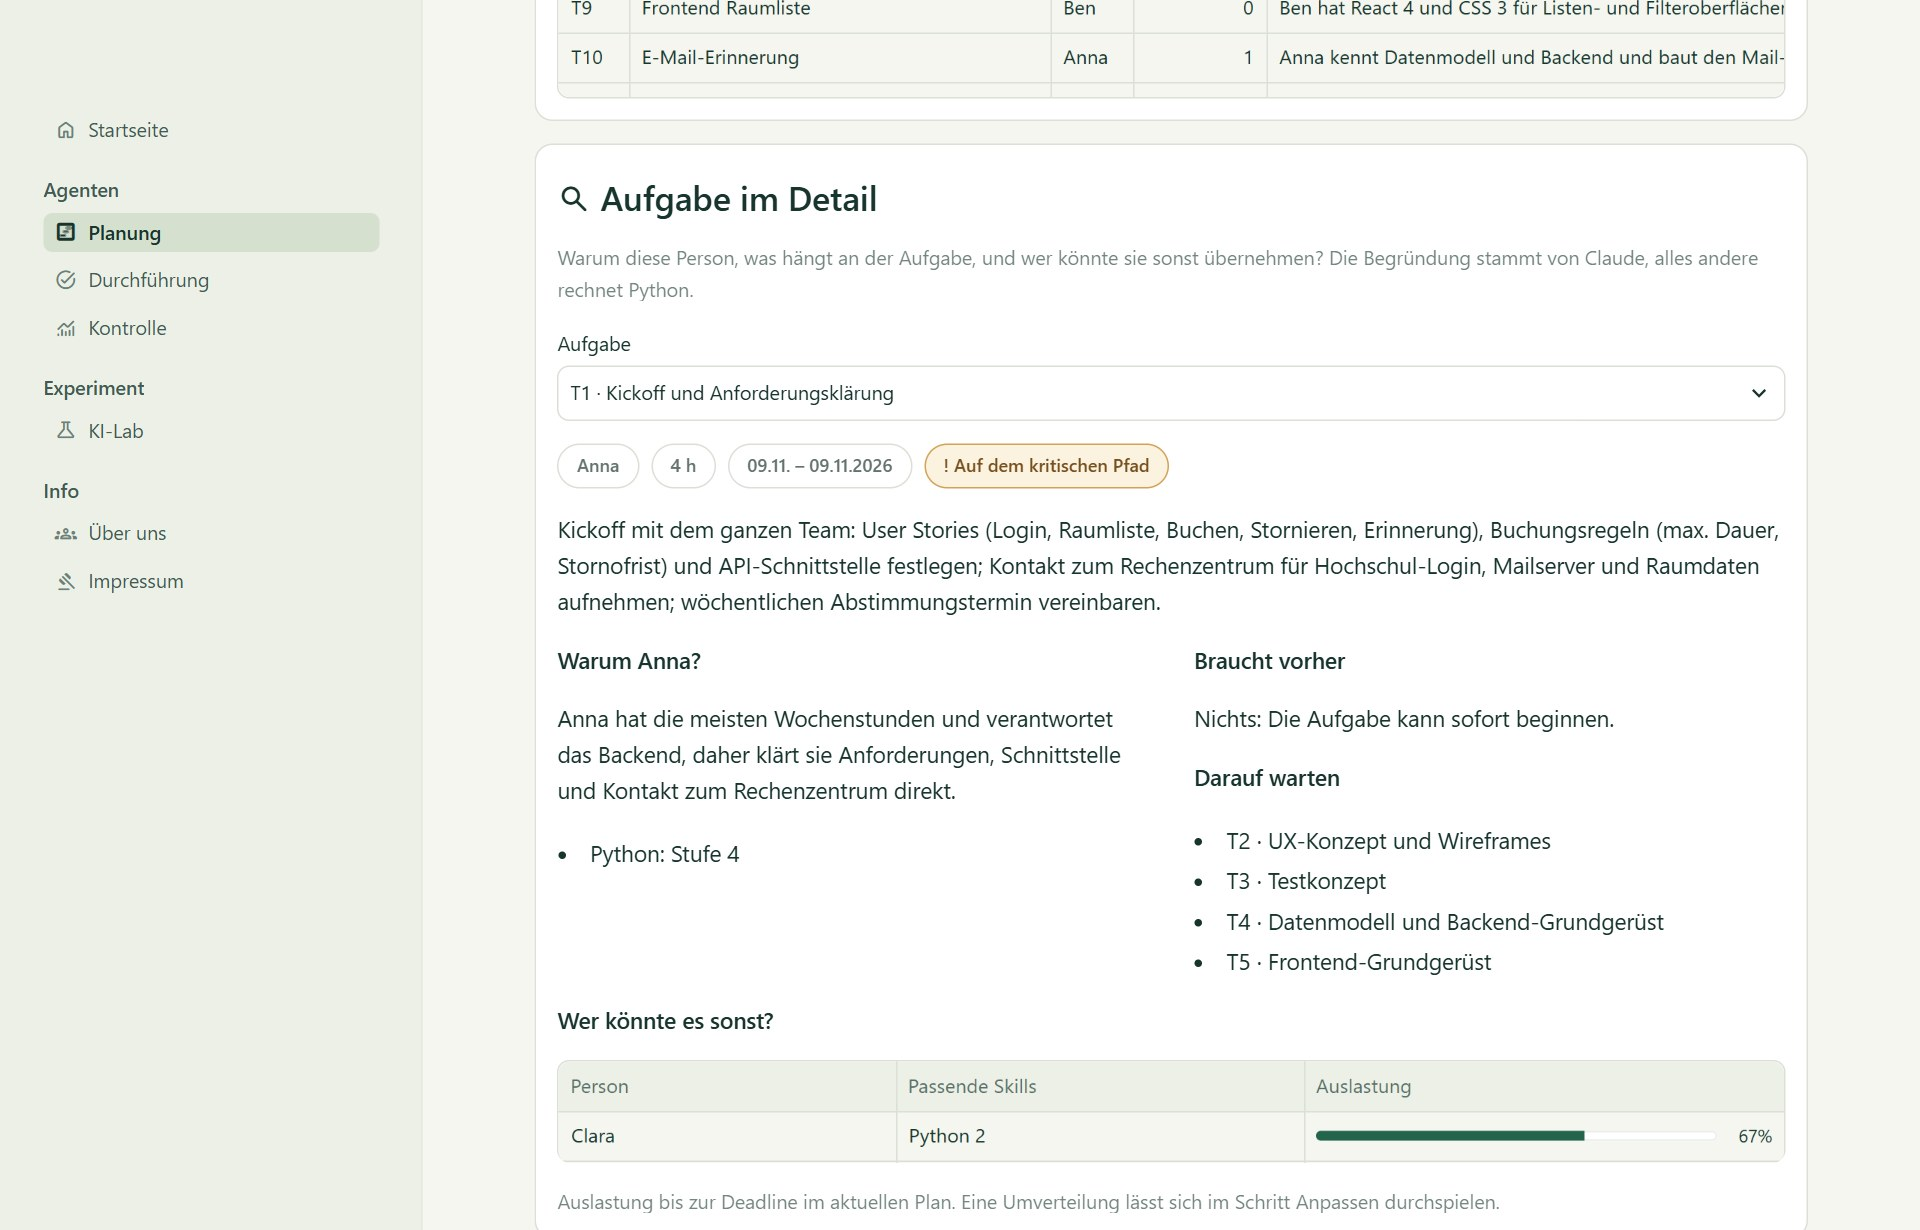
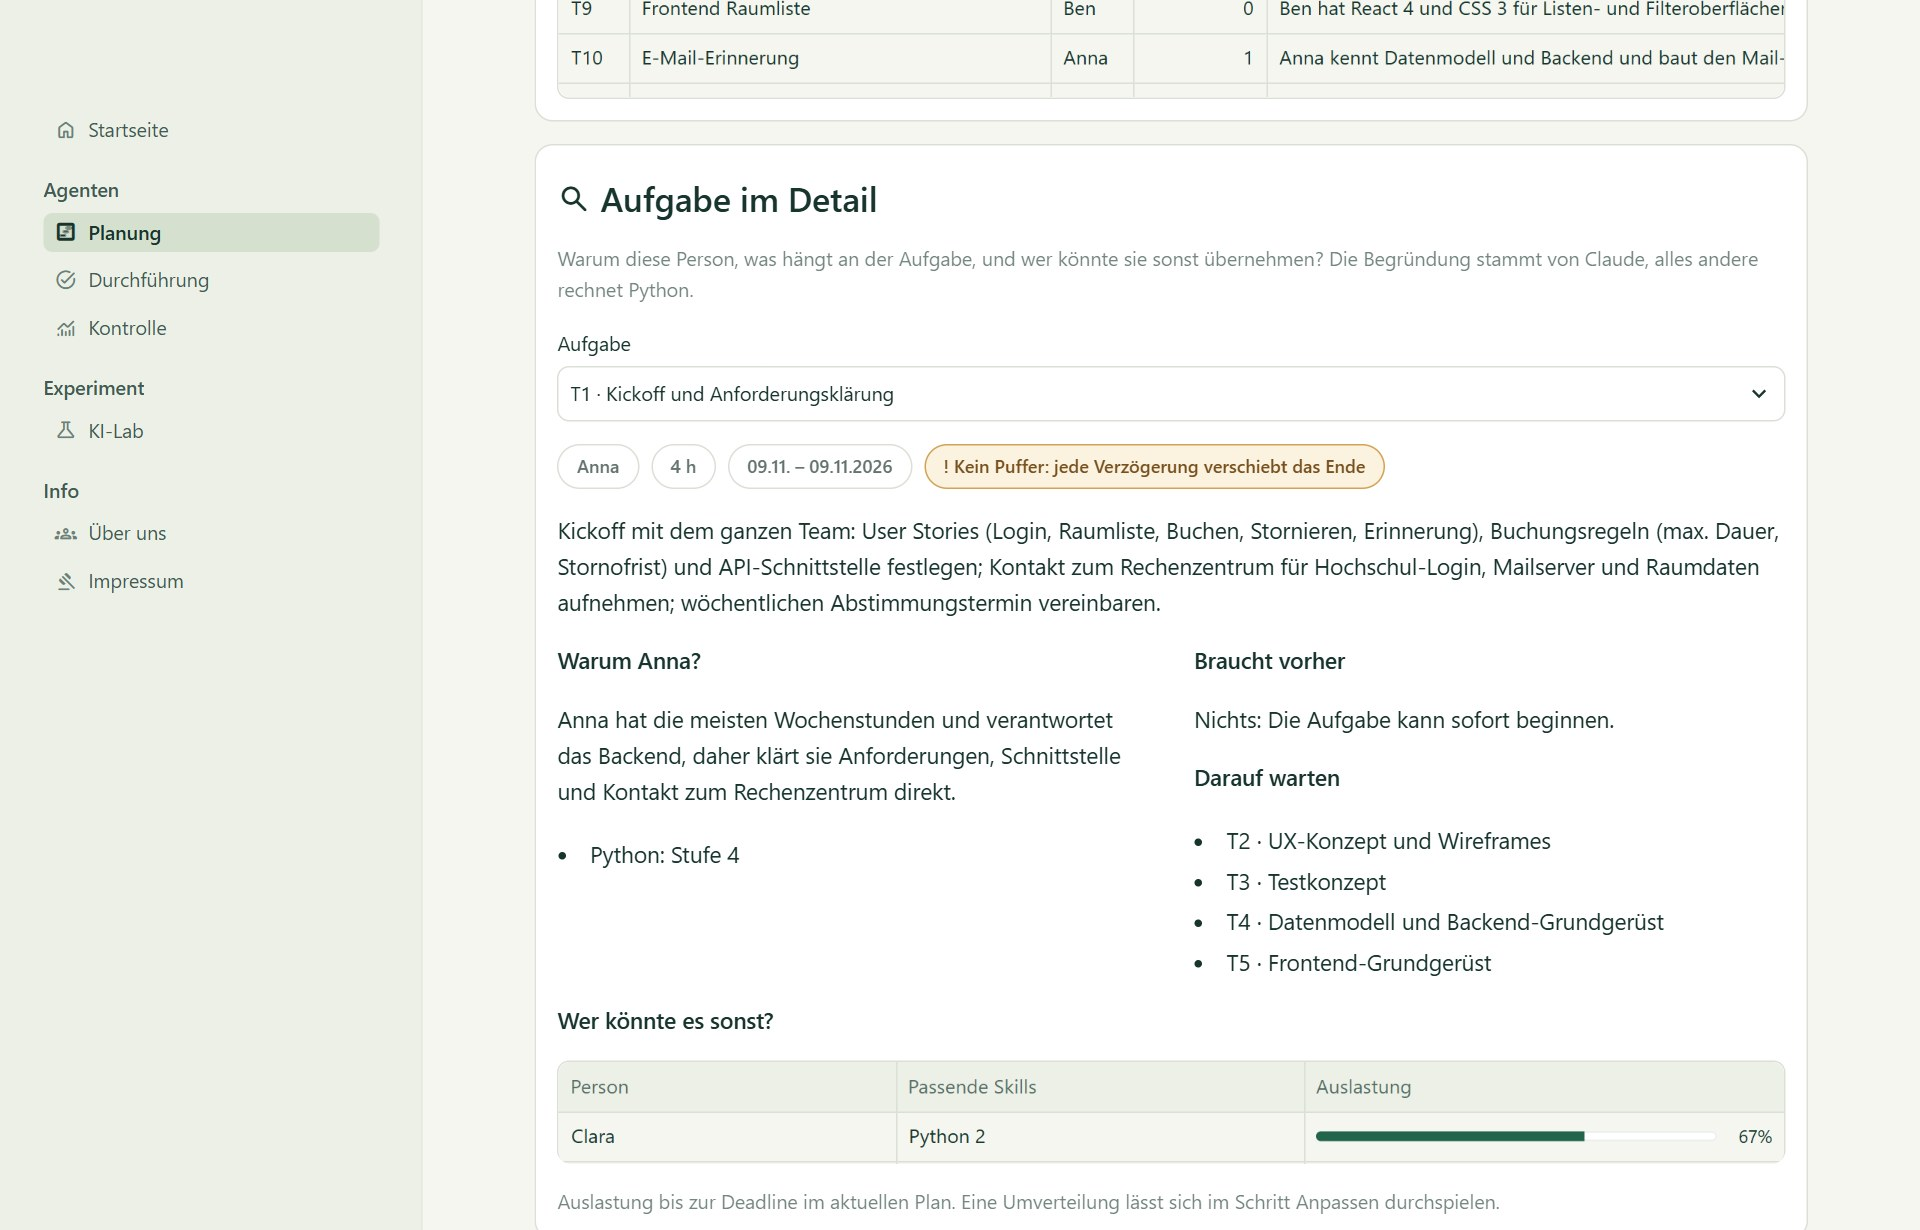
docs: screenshots after the review fixes
The task detail says "Kein Puffer" where it said "Auf dem kritischen
Pfad", and the Gantt chart outlines the tasks without slack.

diff --git a/README.md b/README.md
@@ -108,7 +108,7 @@ darauf wartet, wie viele Arbeitstage Puffer die Aufgabe hat, und wer im Team sie
 übernehmen könnte. Nur die Begründung stammt von Claude, alles andere rechnet Python.
 
 <div align="center">
-<img src="04-Prototyp/pm_agent/assets/screenshots/planung-aufgabe.jpg" width="820" alt="Aufgabe im Detail: Person, Stunden, Zeitraum und kritischer Pfad als Marken, Claudes Begründung, Skills, Vorgänger und Nachfolger, darunter wer die Aufgabe sonst übernehmen könnte">
+<img src="04-Prototyp/pm_agent/assets/screenshots/planung-aufgabe.jpg" width="820" alt="Aufgabe im Detail: Person, Stunden, Zeitraum und Puffer als Marken, Claudes Begründung, Skills, Vorgänger und Nachfolger, darunter wer die Aufgabe sonst übernehmen könnte">
 </div>
 
 ### Den Plan im Gespräch ändern
